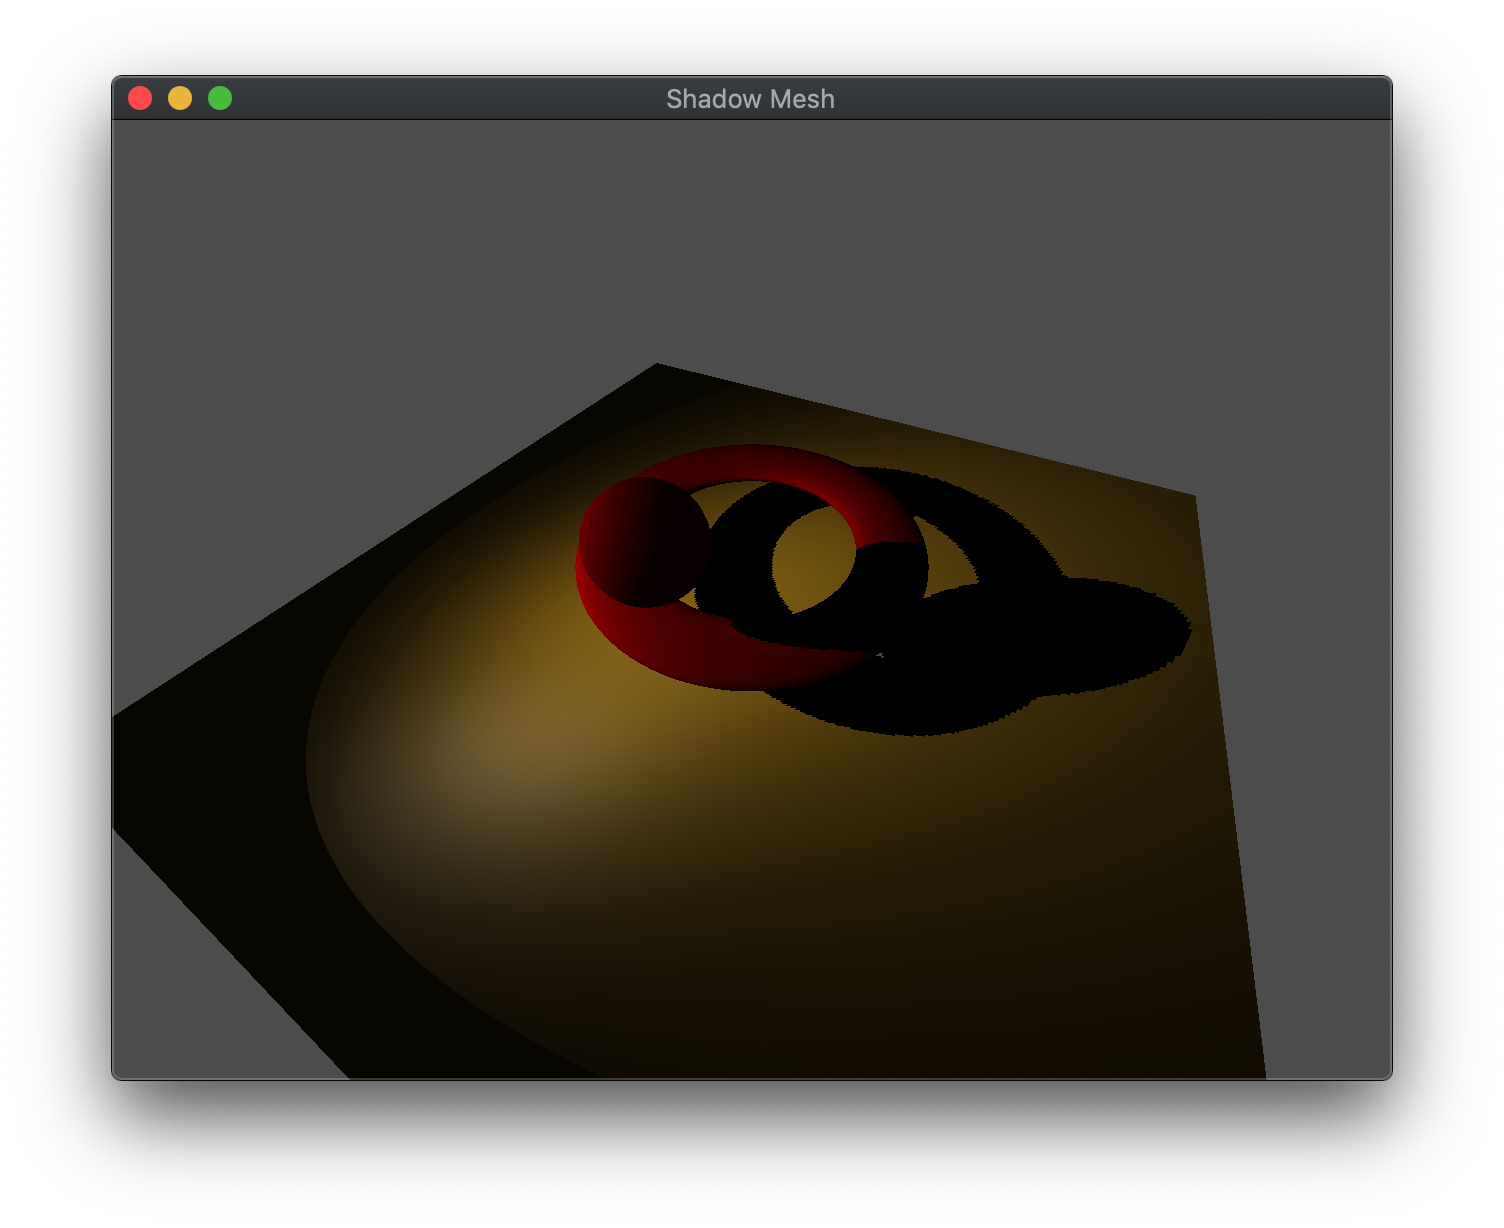
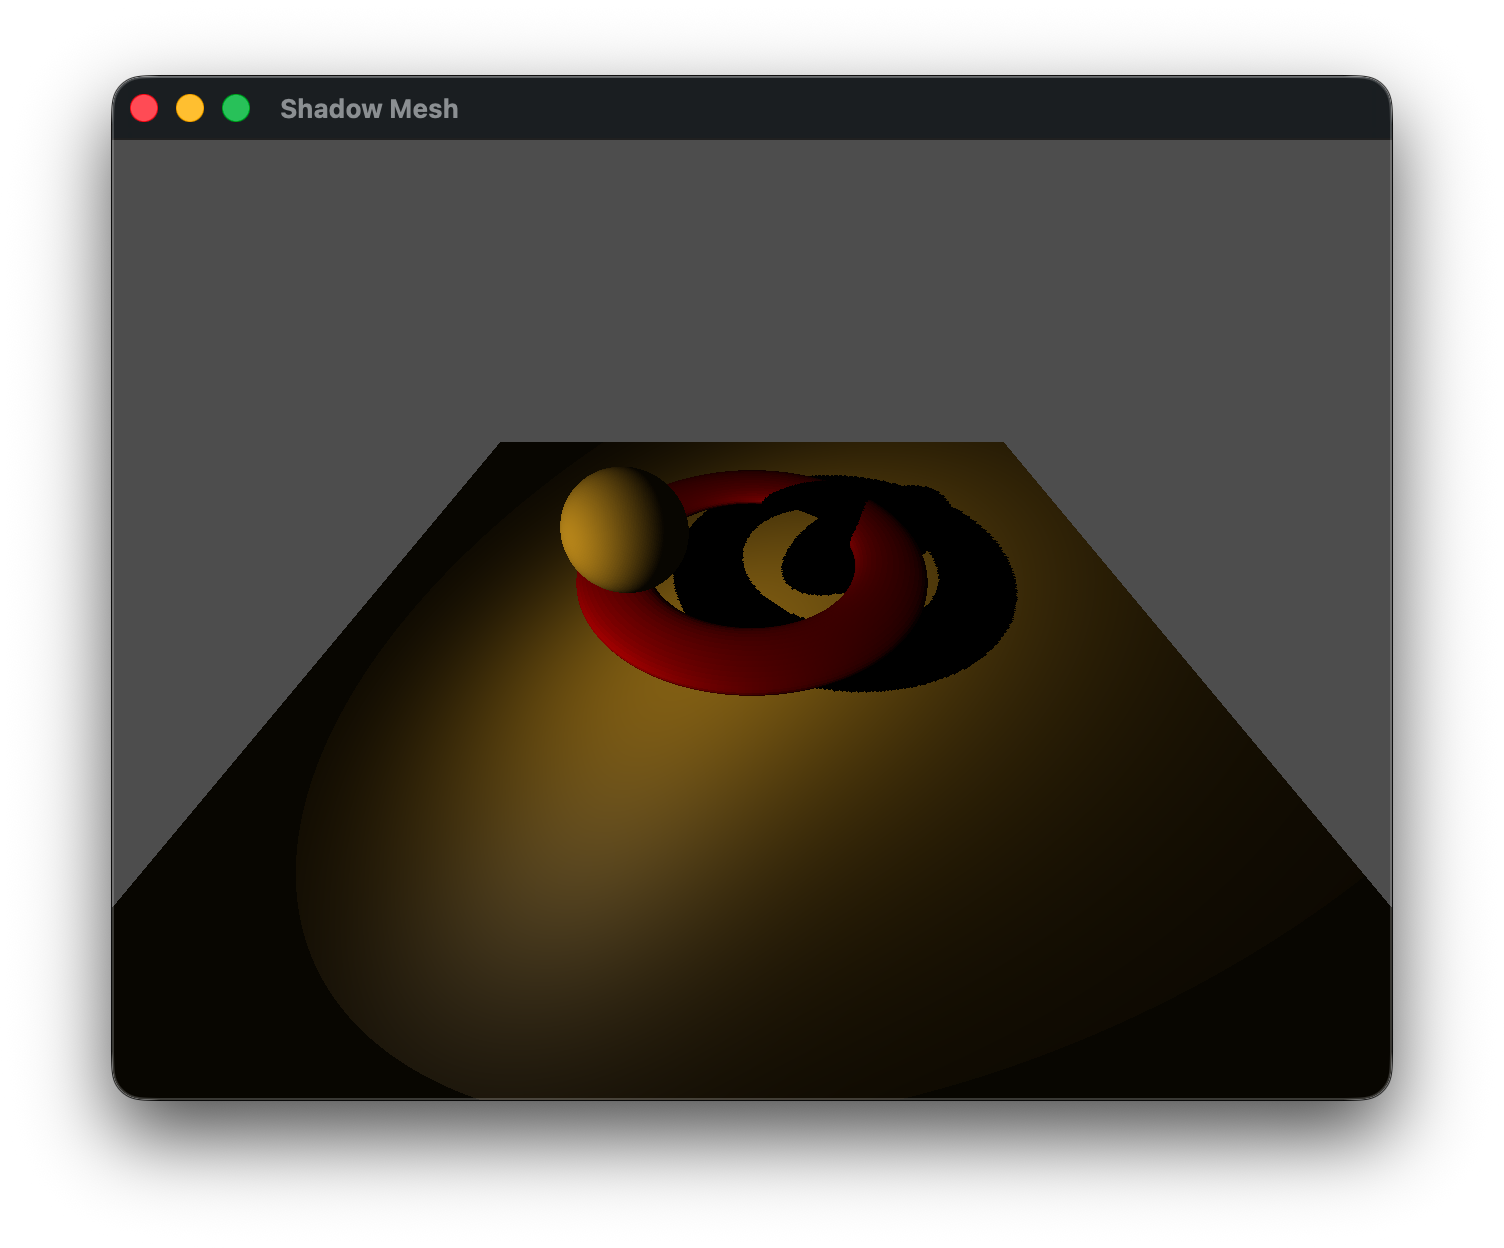
add lab15
add lab15

Changed region(s): [[0.0625, 0.4023, 0.9375, 0.8974], [0.25, 0.2785, 0.8125, 0.6808], [0.0625, 0.0619, 0.9375, 0.1238]]

diff --git a/labs/lab15.md b/labs/lab15.md
@@ -1,0 +1,168 @@
+---
+layout: default
+title: "Lab 15: Shadow Mapping"
+---
+
+The basic graphics pipeline does not maintain any global information (except depth information for hidden surface removal), i.e. each object is rendered independently of other objects. With regards to lighting, this means that objects do not cast *shadows* on other objects despite being *in front* of other objects with respect to a light source. However, we can create a shadow effect using a *mulit-pass* rendering technique, i.e. rendering the objects in the scene multiple times, where an initial pass will be from the perspective of the *light source* creating a depth shadow map that will be stored in a *texture*. This texture can then be used during the normal rendering from the camera to determine if a pixel is in shadow (i.e. further than the closest pixel to the light) and adjust the color accordingly. The key to this technique is creating a second depth buffer and setting an appropriate projection for the light source.
+
+## Getting Started
+
+Download [CS370\_Lab15.zip](src/CS370_Lab15.zip), saving it into the **CS370\_Fa26** directory.
+
+Double-click on **CS370\_Lab15.zip** and extract the contents of the archive into a subdirectory called **CS370\_Lab15**
+
+Open CLion, select **CS370\_Fa26** from the main screen (you may need to close any open projects), and open the **CMakeLists.txt** file in this directory (**not** the one in the **CS370\_Lab15** subdirectory). Uncomment the line
+
+```cpp
+	add_subdirectory("CS370_Lab15" "CS370_Lab15/bin")
+```
+
+Finally, select **Reload changes** which should build the project and add it to the dropdown menu at the top of the IDE window.
+
+#### Solution
+
+Download [CS370\_Lab15\_Solution.zip](sol/CS370_Lab15_Solution.zip), saving it into the **CS370\_Fa26** directory.
+
+Double-click on **CS370\_Lab15\_Solution.zip** and extract the contents of the archive into a subdirectory called **CS370\_Lab15\_Solution**
+
+Open CLion, select **CS370\_Fa26** from the main screen (you may need to close any open projects), and open the **CMakeLists.txt** file in this directory (**not** the one in the **CS370\_Lab15\_Solution** subdirectory). Uncomment the line
+
+```cpp
+	add_subdirectory("CS370_Lab15_Solution" "CS370_Lab15_Solution/bin")
+```
+
+Finally, select **Reload changes** which should build the project and add it to the dropdown menu at the top of the IDE window.
+
+## Building a Shadow Buffer and Texture
+
+To produce the shadow map, we will allocate a new framebuffer (with a depth buffer) that will be used to render the scene into from the perspective of the light. Furthermore, we will create and bind a texture to this framebuffer and write the depth values into this texture. Since we are only interested in the *depth* values, we will disable rendering colors to this framebuffer as well. The code to perform this setup (located in **textures.h**) is
+
+```cpp
+void build_shadows(GLuint s_buff, GLuint s_texid) {
+    // Generate new framebuffer and corresponding texture for storing shadow distances
+    glGenFramebuffers(1, &ShadowBufferIDs[s_buff]);
+    // Bind shadow texture and only store depth value
+    glBindTexture(GL_TEXTURE_2D, ShadowTextureIDs[s_texid]);
+    glTexImage2D(GL_TEXTURE_2D, 0, GL_DEPTH_COMPONENT, 1024, 1024, 0, GL_DEPTH_COMPONENT, GL_FLOAT, NULL);
+    glTexParameteri(GL_TEXTURE_2D, GL_TEXTURE_MIN_FILTER, GL_NEAREST);
+    glTexParameteri(GL_TEXTURE_2D, GL_TEXTURE_MAG_FILTER, GL_NEAREST);
+    glTexParameteri(GL_TEXTURE_2D, GL_TEXTURE_WRAP_S, GL_REPEAT);
+    glTexParameteri(GL_TEXTURE_2D, GL_TEXTURE_WRAP_T, GL_REPEAT);
+    glBindFramebuffer(GL_FRAMEBUFFER, ShadowBufferIDs[s_buff]);
+    glFramebufferTexture2D(GL_FRAMEBUFFER, GL_DEPTH_ATTACHMENT, GL_TEXTURE_2D, ShadowTextureIDs[s_texid], 0);
+    // Buffer is not actually drawn into since only for creating shadow texture
+    glDrawBuffer(GL_NONE);
+    glReadBuffer(GL_NONE);
+    glBindFramebuffer(GL_FRAMEBUFFER, 0);
+}
+```
+
+which will create a framebuffer and store the reference in the *ShadowBufferIDs[]* array and the corresponding texture reference stored in the *ShadowTextureIDs[]* array. Notice that we have created a 1024x1024 resolution texture to provide higher resolution for the shadow map to more accurately capture object edges.
+
+## Creating the Shadow Map
+
+To create the shadow map, we will render similarly to our usual **display()** routine except with a projection and camera matrix from the perspective of the light source we want to use for the shadows. We will select the shadow buffer to render into and render the scene to create the shadow map. The key to generating proper shadows is orienting the shadow "camera" in the proper direction and defining a proper shadow "viewing volume" for the light source. For *directional* lights, orthographic viewing volumes are often used since the projectors for these viewing volumes are parallel corresponding to the parallel light rays of a directional light. For *point* and *spot* lights, frustum viewing volumes are used since the light rays emanate from the light location. For either projection, it is important for depth buffer accuracy to place the near and far clipping planes as close together as possible while capturing the objects that will be affected by the shadowing.
+
+One other consideration when rendering the shadow map, is unlike our regular rendering, we will want to cull *front faces*. This is done to avoid an artifact known as *peter panning* where objects can appear detached from their shadows (see [LearnOpenGL](https://learnopengl.com/Advanced-Lighting/Shadows/Shadow-Mapping)).
+
+### Tasks
+
+- Add code in **shadowMesh.cpp** to **create\_shadows()** to set the *shadow\_proj\_matrix* to a **frustum** with extents (-1,1,-1,1,1,20)
+
+- Add code in **shadowMesh.cpp** to **create\_shadows()** to set the *shadow\_camera\_matrix* using **lookat()** using the position of the *Light* parameter as the eye vector, the sum of the *Light* parameter position and direction (which defines a point in front of the light location along the light direction) as the center vector, and the usual (0,1,0) as the up vector. **Note:** **DO NOT** change the *eye* and *center* variables for the regular camera, instead create local **vec3** variables.
+
+- Add code in **shadowMesh.cpp** to **create\_shadows()** to set the *shadow* flag to **true** (to have **render\_scene()** use the shadow shaders), call **render\_scene()**, then set the *shadow* flag back to **false**.
+
+- Add code in **shadowMesh.cpp** to **main()** in the rendering loop to call **create\_shadows()** *before* **display()**. Pass **Lights[0]** as the light source and *ShadowBuffer1* as the enum constant for the shadow framebuffer to use. Cull front faces by calling **glCullFace(GL\_FRONT)** immediately before creating the shadows and then reset it using **glCullFace(GL\_BACK)** immediately after creating the shadows for proper rendering of the actual scene.
+
+**Note:** Observe how the viewport is adjusted to match the shadow map resolution when rendering the scene from the light (and then set back to the normal viewport for the display window) and the shadow buffer is bound as the framebuffer. Also, sometimes it can be tricky to set the shadow camera and projection matrices correctly, so a *debug\_program* shader has been provided (using **debugShadow.vert** and **debugShadow.frag** from the **common** directory). This debug shader can be used to help adjust the shadow camera and projection matrices until the desired depth map is obtained by rendering the shadow map directly onto the screen by uncommenting the **debugShadows(ShadowTex1)** call in the main rendering loop and commenting out the **display()** call.
+
+## Rendering the Scene with Shadows
+
+Once the shadow map is created, we reset the projection and camera matrices for the viewer (in **display()**). We then simply draw the objects using **draw\_mat\_shadow\_object()** which contains logic to select the appropriate rendering shader and set corresponding shader variables, e.g. the light and material buffers for the lighting shader, and *bind* the shadow map which will be used in the shader to perform the shadow depth test.
+
+### Tasks
+
+- Add code in **shadowMesh.cpp** to **render\_scene()** to call **draw\_mat\_shadow\_object()** passing the *Cube* and *Brass* constants to draw the cube for the table.
+
+- Add code in **shadowMesh.cpp** to **render\_scene()** to call **draw\_mat\_shadow\_object()** passing the *Sphere* and *Brass* constants to draw the revolving sphere.
+
+- Add code in **shadowMesh.cpp** to **render\_scene()** to call **draw\_mat\_shadow\_object()** passing the *Torus* and *RedPlastic* constants to draw the torus.
+
+**Note:** When creating the shadow map (i.e. *shadow* is **TRUE**) we avoid unnecessarily computing the normal matrix since we only are interested in depth values. Also, additional code has been provided to draw a small sphere illustrating where the light source is within the scene.
+
+## Shadow Testing in the Shader
+
+The final step to incorporating shadows involves comparing the depth of the closest object to the light, stored in the shadow map, with the depth of each object *from the light*. We will compute the distance for the object in the vertex shader using the light projection and camera matrices on the transformed vertex position which will then be passed (and interpolated) to the fragment shader. We can then normalize the projected coordinates in the fragment shader and use the **.xy** coordinates as the *texture coordinate* to use to sample the shadow map since they will represent the texel location of the rendered object. The **.r** field of the sampled "color" will give the depth of the closest object to the light which we can compare to the object depth to determine if the fragment is in shadow or not.
+
+One consideration that we need to account for is the precision of the depth calculations which can cause some fragments to be in shadow while others are not producing a strange Moire pattern on the objects. Thus to avoid this artifact effect, known as "shadow acne" (see [LearnOpenGL](https://learnopengl.com/Advanced-Lighting/Shadows/Shadow-Mapping)), we can slightly offset the depth of the surface by a small bias so the compared depth will be slightly less than the value stored in the shadow map for objects that are not in shadow (i.e. the closest objects).
+
+A shader function to perform the depth comparison (see [LearnOpenGL](https://learnopengl.com/Advanced-Lighting/Shadows/Shadow-Mapping)) is
+
+```cpp
+float ShadowCalculation(vec4 fragLightPos) {
+     // Normalize light position [-1, 1]
+     vec3 projCoords = fragLightPos.xyz/fragLightPos.w;
+
+     // Convert to depth range [0, 1]
+     projCoords = projCoords*0.5 + 0.5;
+
+     float closestDepth = texture(shadowMap, projCoords.xy).r;
+     float curDepth = projCoords.z;
+
+     float bias = 0.005;
+     return curDepth - bias > closestDepth ? 1.0f : 0.0f;
+}
+```
+
+Finally, once we know if a fragment is in shadow, we can attenuate the color of that fragment accordingly. 
+
+### Tasks
+
+- Add code in **phongShadow.vert** in **main()** to compute the transformed vertex *Position* in light space
+
+```cpp
+    LightPosition = light_proj_matrix*(light_cam_matrix*Position);
+```
+
+- Add code in **phongShadow.frag** to add the **ShadowCalculation()** function code given above.
+
+- Add code in **phongShadow.frag** in **main()** to perform the shadow calculation to determine if the fragment is in shadow using *LightPosition* received from the vertex shader
+
+```cpp
+     float shadow = 1.0 - ShadowCalculation(LightPosition);
+```
+
+- Add code in **phongShadow.frag** in **main()** to attenuate the computed light color with *shadow* (which will either be 0.0 if the fragment is in shadow or 1.0 if not)
+
+```cpp
+     fragColor = shadow*vec4(min(rgb,vec3(1.0)), Materials[Material].ambient.a);
+```
+
+## Compiling and running the program
+
+You should be able to build and run the program by selecting **shadowMesh** from the dropdown menu and clicking the small green arrow towards the right of the top toolbar.
+
+At this point you should see a torus and revolving sphere that casts a shadow on the torus and ground. 
+
+> <img src="images/lab15/shadowMesh.png" alt="Shadow Mesh Window" height="500"/>
+
+To quit the program simply close the window.
+
+Congratulations, you have now written an application incorporating shadows.
+
+Next we will investigate how to add mirrors into the scene.
+
+### Multiple Lights
+
+It is possible to repeat this effect with multiple lights by having separate depth buffer textures, rendering the scene from each light source, and then combining the shadow effects for each object. Obviously the more lights there are, the greater the performance penalty for each subsequent rendering stage. Here is a sample solution with two lights
+
+[CS370\_Lab15\_MultiLight\_Solution.zip](sol/CS370_Lab15_MultiLight_Solution.zip)
+
+You will need to uncomment the following line in your **CMakeLists.txt** file in the **CS370\_Fa26** directory (**not** the one in the **CS370\_Lab15\_MultiLight\_Solution** subdirectory).
+
+```cpp
+	add_subdirectory("CS370_Lab15_MultiLight_Solution" "CS370_Lab15_MultiLight_Solution/bin")
+```
+
+> <img src="images/lab15/multiShadowMesh.png" alt="Multi Shadow Mesh Window" height="500"/>
